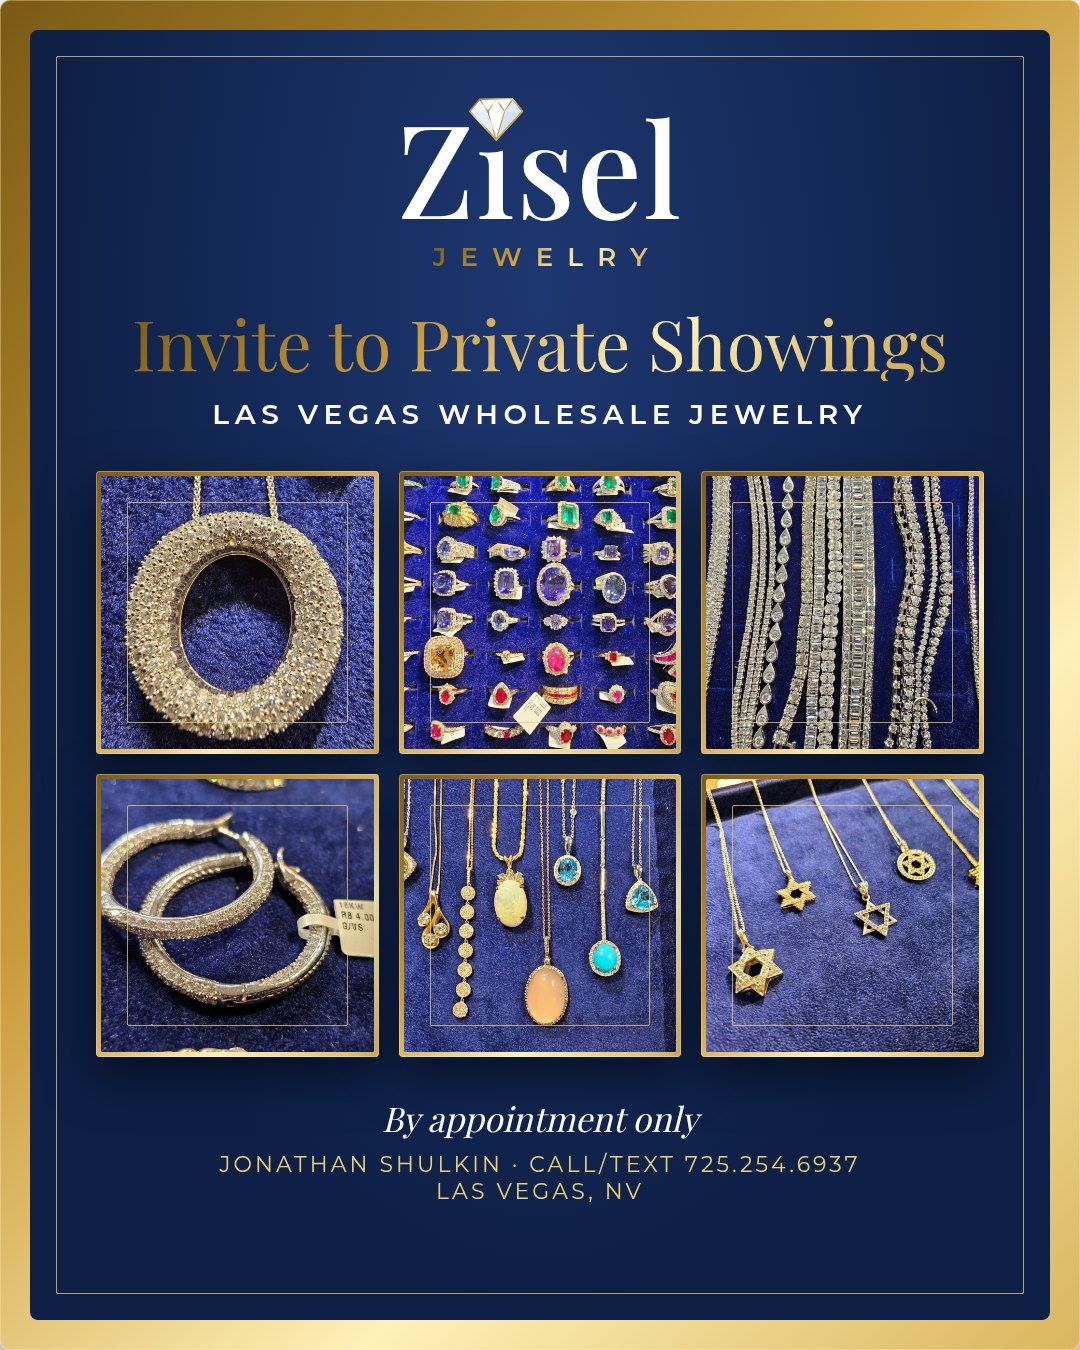
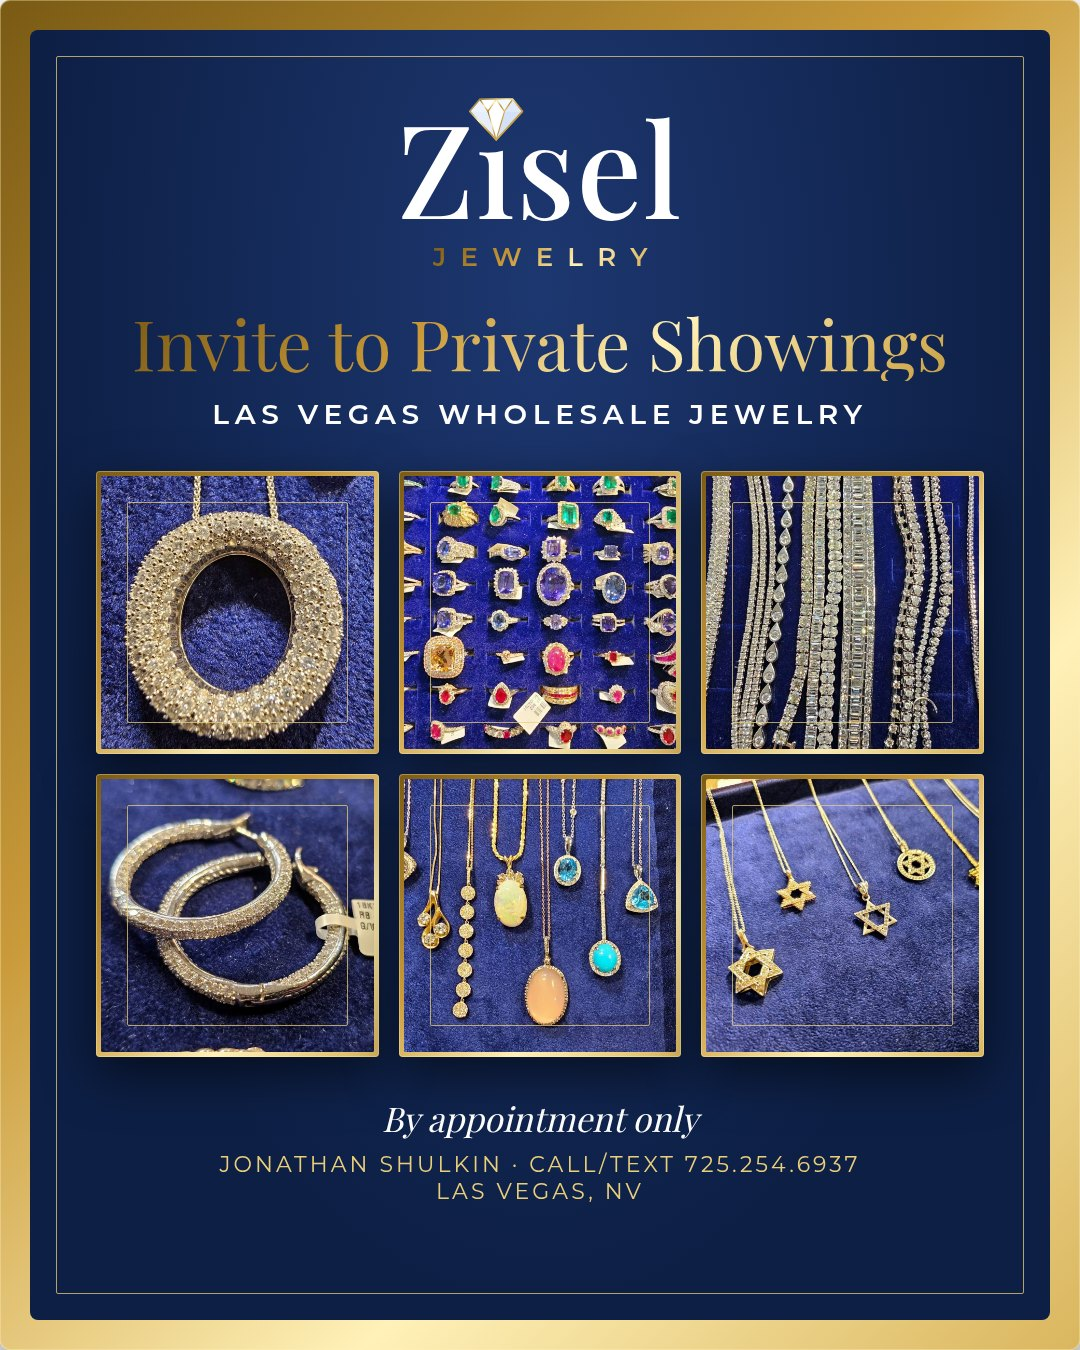
Poster/PDF/invite/site: nudge z019 hoop earrings crop right; site z076 framing

Changed region(s): [[0.0917, 0.56, 0.3667, 0.7778]]

diff --git a/index.html b/index.html
@@ -262,7 +262,7 @@ header .wm{position:relative;padding:6px 14px 7px;border:2px solid transparent;b
 .zlb img{max-width:94vw;max-height:88vh;border:5px solid #d8b35a}
 @media (max-width:1080px){.ggrid{grid-template-columns:repeat(3,1fr)}}
 @media (max-width:640px){.ggrid{grid-template-columns:repeat(2,1fr);gap:14px}.gallery{padding:72px 0}.gtile figcaption{font-size:10px;letter-spacing:.1em}}
-</style>
+img[src*="z076.jpg"]{object-position:15% 50%}img[src*="z019.jpg"]{object-position:30% 50%}</style>
 <meta property="og:image" content="https://sip-coder.github.io/zisel-jewelry/brand/logo_zisel_gold-frame_primary.png">
 <link rel="icon" href="brand/logo_zisel_monogram-seal.png">
 </head>

diff --git a/invite/zisel.css b/invite/zisel.css
@@ -22,3 +22,4 @@ html,body{background:radial-gradient(ellipse at 50% 30%,#1b3470 0%,#0d1f45 55%,#
 
 .inner[style*="aspect-ratio"]>img,.tile .inner>img{position:absolute;inset:0}
 img[src*="z076.jpg"]{object-position:15% 50%}
+img[src*="z019.jpg"]{object-position:30% 50%}
